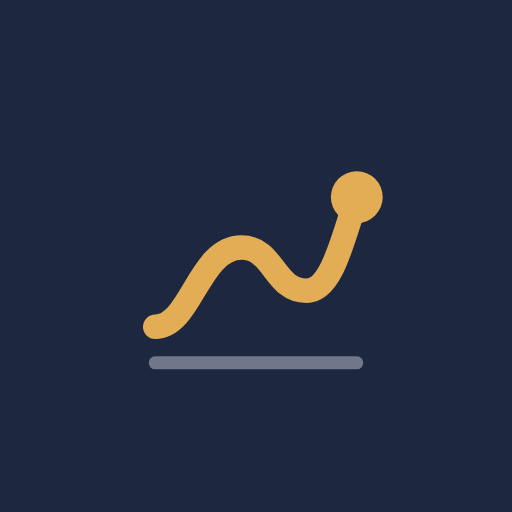
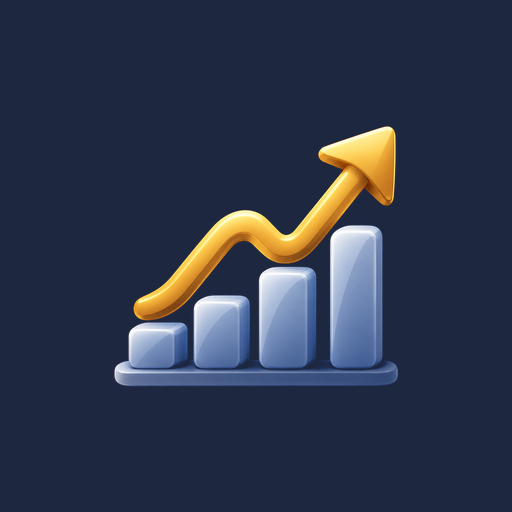
Add files via upload
New Logo Mark

Changed region(s): [[0.2188, 0.25, 0.7812, 0.7812]]

diff --git a/sw.js b/sw.js
@@ -1,5 +1,5 @@
-const C='rasma-v2';
-const FILES=['./','index.html','manifest.webmanifest','icon-192.png','icon-512.png'];
+const C='rasma-v4-3d-appicons';
+const FILES=['./','index.html','manifest.webmanifest','icon-192.png','icon-512.png','rasma-logo-mark.png'];
 self.addEventListener('install',e=>{e.waitUntil(caches.open(C).then(c=>c.addAll(FILES)).then(()=>self.skipWaiting()))});
 self.addEventListener('activate',e=>{e.waitUntil(caches.keys().then(k=>Promise.all(k.filter(x=>x!==C).map(x=>caches.delete(x)))).then(()=>self.clients.claim()))});
 self.addEventListener('fetch',e=>{const u=new URL(e.request.url);if(e.request.method!=='GET'||u.pathname.endsWith('config.json')||u.pathname.endsWith('products.json'))return;

diff --git a/index.html b/index.html
@@ -206,7 +206,7 @@ input.locked{background:repeating-linear-gradient(135deg,var(--bg) 0 8px,color-m
 <header class="band">
   <div class="band-in">
     <div class="brand">
-      <svg class="mark" aria-hidden="true"><use href="#rasma-mark"/></svg>
+      <img class="mark" src="rasma-logo-mark.png" alt="" aria-hidden="true" width="40" height="40">
       <div>
         <div class="name" data-i="brandName"></div>
         <div class="sig" id="sig"></div>
